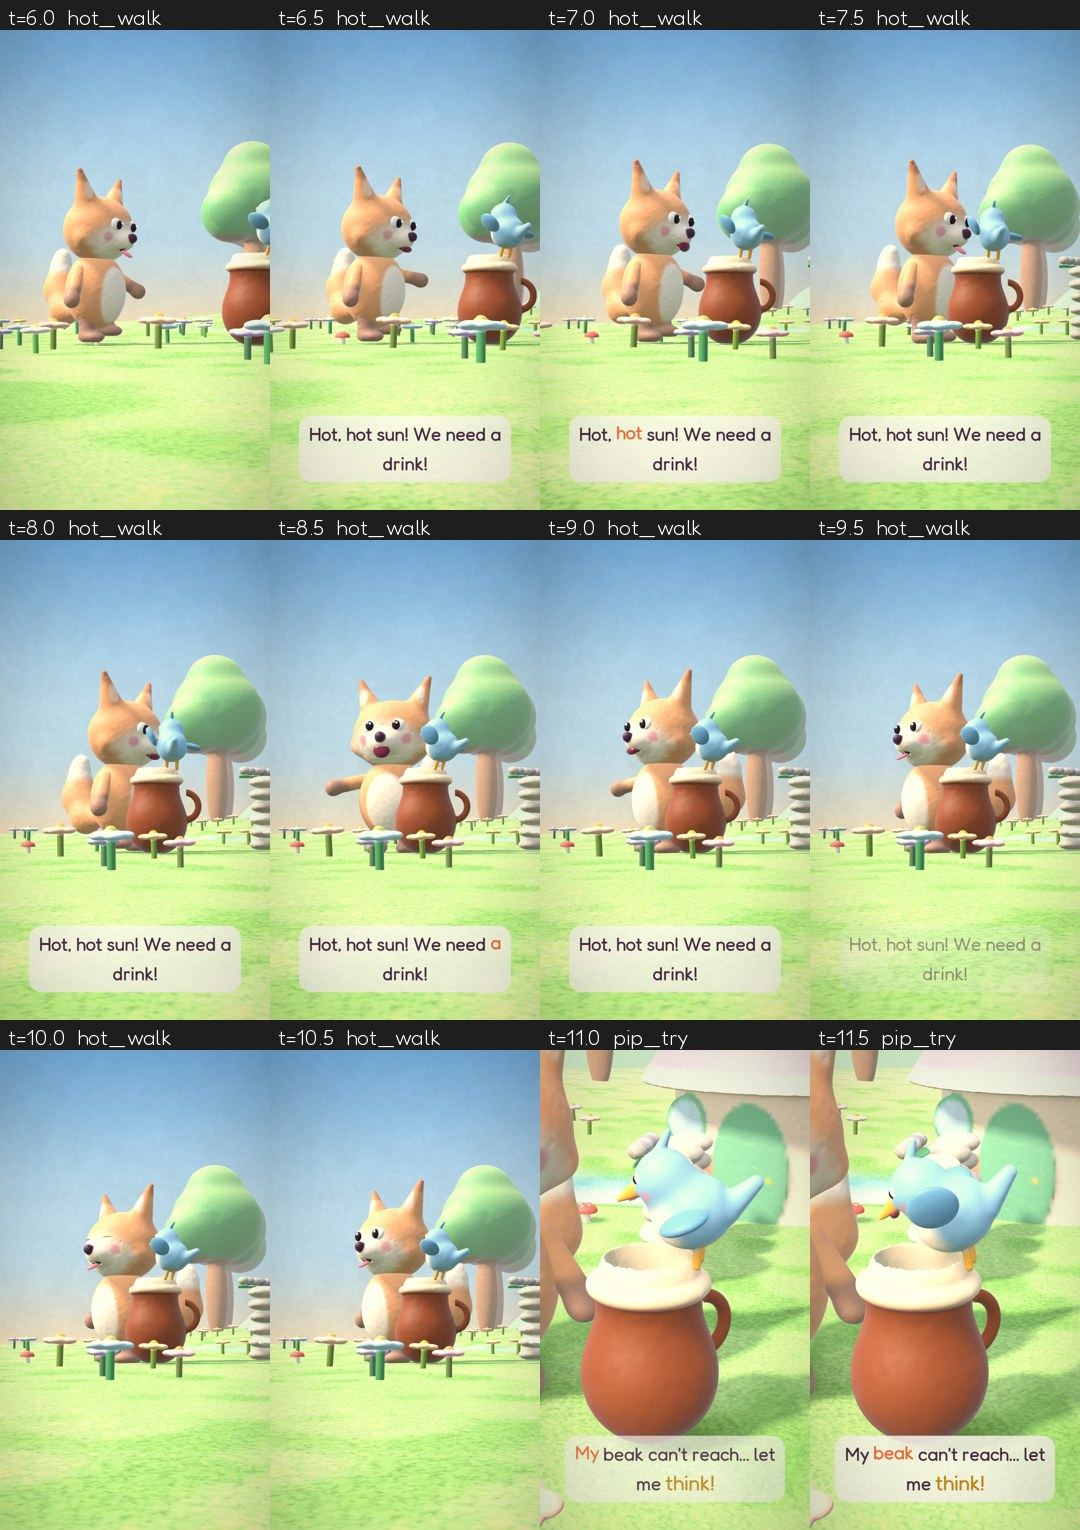
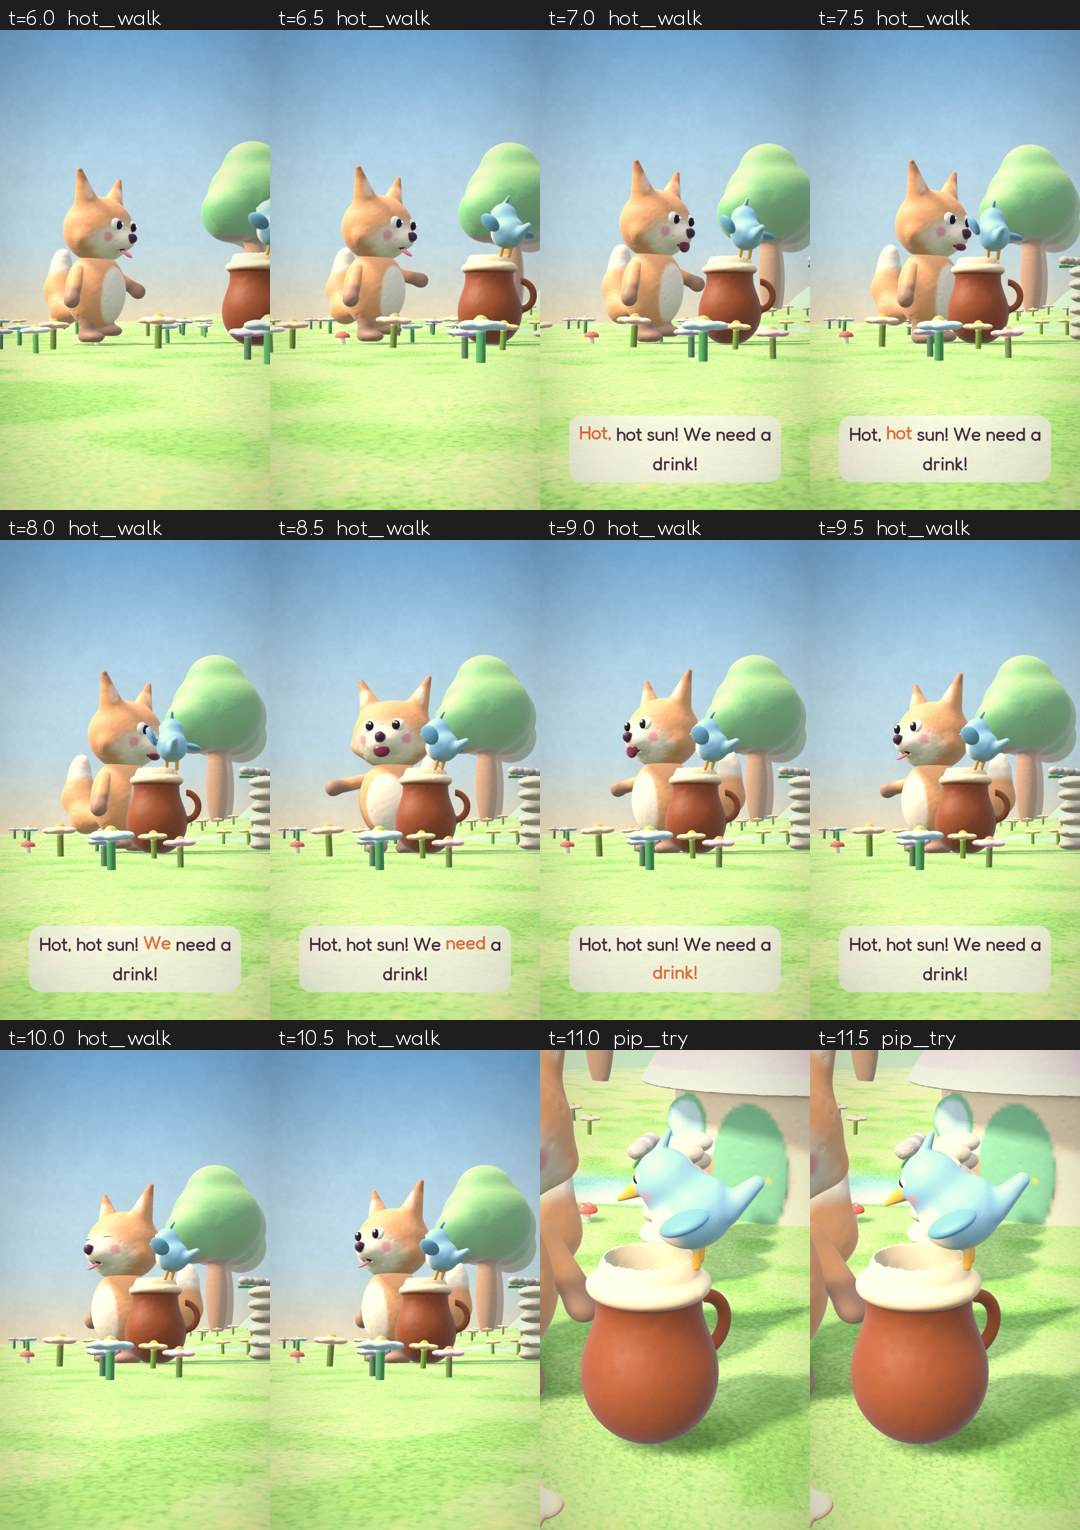
Fable 3: plan.md, shot splits follow the sung words (drink and moral cuts)
Claude-Session: https://claude.ai/code/session_01BFozMBD3P58CaUxgzuKyHS

diff --git a/batches/01-fables-friendship/fable-03-pebble-pebble-plop/code/timeline.py b/batches/01-fables-friendship/fable-03-pebble-pebble-plop/code/timeline.py
@@ -97,11 +97,12 @@ POP = (word_times("pop", "Problem B") or [PULLS[-1] + 0.9])[0]
 COUNT = [(word_times(w, "Twist") or [_tw[0] + 1.2 + 0.6 * k])[0] for k, w in enumerate(("one", "two", "three", "four", "five"))]
 HOOK_SPLIT = _clip(_h[0] + 1.9, 1.4, _h[1] - 1.4)                     # Pip peering in, then the look down the neck
 PB_SPLIT = _clip(POP + 0.35, _pb[0] + 1.4, _pb[1] - 3.0)              # the pull and the pop, then the backward roll
-TW_SPLIT = _clip(COUNT[-1] + 0.9, _tw[0] + 2.5, _tw[1] - 1.6)          # the counting drops, then the drink
+TW_SPLIT = COUNT[-1] + 0.55                                           # the counting drops (last plop on 'five'), then the drink
+MORAL_CUT = (word_times('think', 'Moral') or [_m[0] + 1.0])[0] - 0.45   # moral shot starts just before the sung 'Think'
 SHOTS = [(0.0, HOOK_SPLIT, "hook_peer"), (HOOK_SPLIT, _h[1], "hook_pov"), (_s[0], _s[1], "title_wide"),
          (_sa[0], _sa[1], "hot_walk"), (_sb[0], _sb[1], "pip_try"), (_pa[0], _pa[1], "paw_in"),
          (_pb[0], PB_SPLIT, "pull"), (PB_SPLIT, _pb[1], "roll_back"), (_tw[0], TW_SPLIT, "count"),
-         (TW_SPLIT, _tw[1], "drink"), (_m[0], _m[1], "moral"), (_c[0], _c[1], "chorus"), (_bt[0], DURATION + 0.1, "button_crane")]
+         (TW_SPLIT, MORAL_CUT, "drink"), (MORAL_CUT, _m[1], "moral"), (_c[0], _c[1], "chorus"), (_bt[0], DURATION + 0.1, "button_crane")]
 def shot_at(t):
     for i, (a, b, n) in enumerate(SHOTS):
         if a <= t < b: return i, n, (t - a) / max(b - a, 1e-6), t - a

diff --git a/batches/01-fables-friendship/fable-03-pebble-pebble-plop/plan.md b/batches/01-fables-friendship/fable-03-pebble-pebble-plop/plan.md
@@ -1,0 +1,73 @@
+# Tumble & Pip Fables 3: Pebble, Pebble, Plop!
+
+- **job:** batch 01, fable 03 (`fable-03-pebble-pebble-plop`), on the shared kit (`common/fablekit.py`)
+- **status:** animatic in both aspects, geometry QA 0, song and mix done (`../audio/fable-03/`: verse recall 100%,
+  full-mix recall 98.4%, -14.4 LUFS). Independent review and final renders follow.
+- **source:** Aesop's fable *The Crow and the Pitcher* (public domain), retold with our cast
+- **lesson:** think it through and try something new (problem solving); bonus: counting 1 to 5
+- **length:** 48.0 s (20 bars at 100 BPM)
+
+## Prompt
+
+A 48-second claymation fable for children aged 3 to 5:
+- On a hot day in the Picnic Meadow, Pip peers into a tall clay jug by the cottage. The water is far down: "The
+  water's way down there!"
+- Tumble and Pip are thirsty. Pip's beak can't reach. Tumble pushes his paw into the neck and it gets stuck.
+- He pulls, pulls, pulls and the paw comes out with a cork POP; he rolls backwards and lands on his feet.
+- Pip has an idea. Tumble lifts a leaf tray of five pebbles from the old stone wall. Pip drops them in one by one,
+  counting "One, two, three, four, five!" The water rises with every plop until it reaches the brim.
+- Pip sips, and now the water reaches Tumble's tongue too: "Ahh!"
+- Pip sings the moral from Tumble's paw, "Think it through, try something new!", then the series dance. In the
+  button Pip's wing-splash lands on Tumble's nose.
+
+## Lyrics
+
+Real sung times from `audio/fable-03/song_check.json` (verse seed 3).
+
+| Section | Time (s) | Singer | Line |
+|---|---|---|---|
+| Hook | 0.0-3.6 | Pip | The water's way down there! |
+| Sting | 3.6-6.0 | duet (stored) | Tumble and Pip! |
+| Setup A | 6.0-10.8 | Tumble | Hot, hot sun! We need a drink! |
+| Setup B | 10.8-15.6 | Pip | My beak can't reach... let me think! |
+| Problem A | 15.6-20.4 | Tumble | In goes my paw... uh-oh, it's stuck! |
+| Problem B | 20.4-27.6 | Tumble | Pull, pull, pull... and POP! |
+| Twist | 27.6-34.8 | Pip | Pebbles in! One, two, three, four, five! |
+| Moral | 34.8-38.4 | Pip | Think it through, try something new! |
+| Chorus | 38.4-45.6 | duet (stored) | Big or small, short or tall, / friends help friends, that's best of all! |
+| Button | 45.6-48.0 | instrumental | |
+
+Spoken gags (cast voices, eleven_v3): Tumble "Whoa-oh!" (the pop), both "Ahh!" (first sip), both "Bye-bye!".
+
+## Shot list
+
+Shot splits come from sung words (`PULLS`, `POP`, `COUNT`, `MORAL_CUT` in `timeline.py`), not from the grid.
+
+| # | Shot | Camera | What happens |
+|---|---|---|---|
+| 1 | hook_peer | low side-on | Pip on the rim peers down the jug |
+| 2 | hook_pov | looking down the neck | the water far below, a ripple |
+| 3 | title_wide | wide | jug, wall, cottage; Pip fans himself with a wing; title card |
+| 4 | hot_walk | medium side | Tumble pants and fans himself, walks to the jug |
+| 5 | pip_try | close side | Pip leans in further and further, wobbles, can't reach, then "let me think" |
+| 6 | paw_in | high three-quarter | paw into the neck on "in"; stuck on "stuck!" |
+| 7 | pull | high three-quarter | three pulls, the jug lifts each time; cork POP on "POP!" |
+| 8 | roll_back | wide, tight follow | backward somersault; Pip flies to the wall and points; Tumble lifts the pebble leaf |
+| 9 | count | high three-quarter from the jug side | Pip drops a pebble on each count; plop splash; the water rises |
+| 10 | drink | wide low | Pip sips, Tumble's tongue reaches the water |
+| 11 | moral | push-in two-shot | Pip on his paw; moral card |
+| 12 | chorus | medium front | the series dance and high-five |
+| 13 | button_crane | crane up | Pip's wing-splash lands on Tumble's nose; "Bye-bye!" |
+
+## Differences from Fables 1 and 2
+
+- New corner: a clay jug by the cottage with a dry stone wall (no tree, no kite, no stream).
+- A counting beat on the sung "one" to "five" with a rising water level; hot-day light grade.
+- A cork-pop gag (stuck paw, backward roll) instead of a wrap or a dive.
+- Pip solves it by thinking and dropping things, Tumble carries (Fable 1: pecking, Fable 2: tugging).
+
+## New assets
+
+- Hollow clay jug (`props_f3.py`, built from the shared SDF primitives) with a water disc that rises per pebble.
+- Pebbles and a leaf tray built from existing meshes (`stone`, `leaf`); the stone wall is a row of stones.
+- Hot-day grade wraps `fablekit.render_frame`; dynamic QA ignore for the jug only while it is stuck on his paw.
